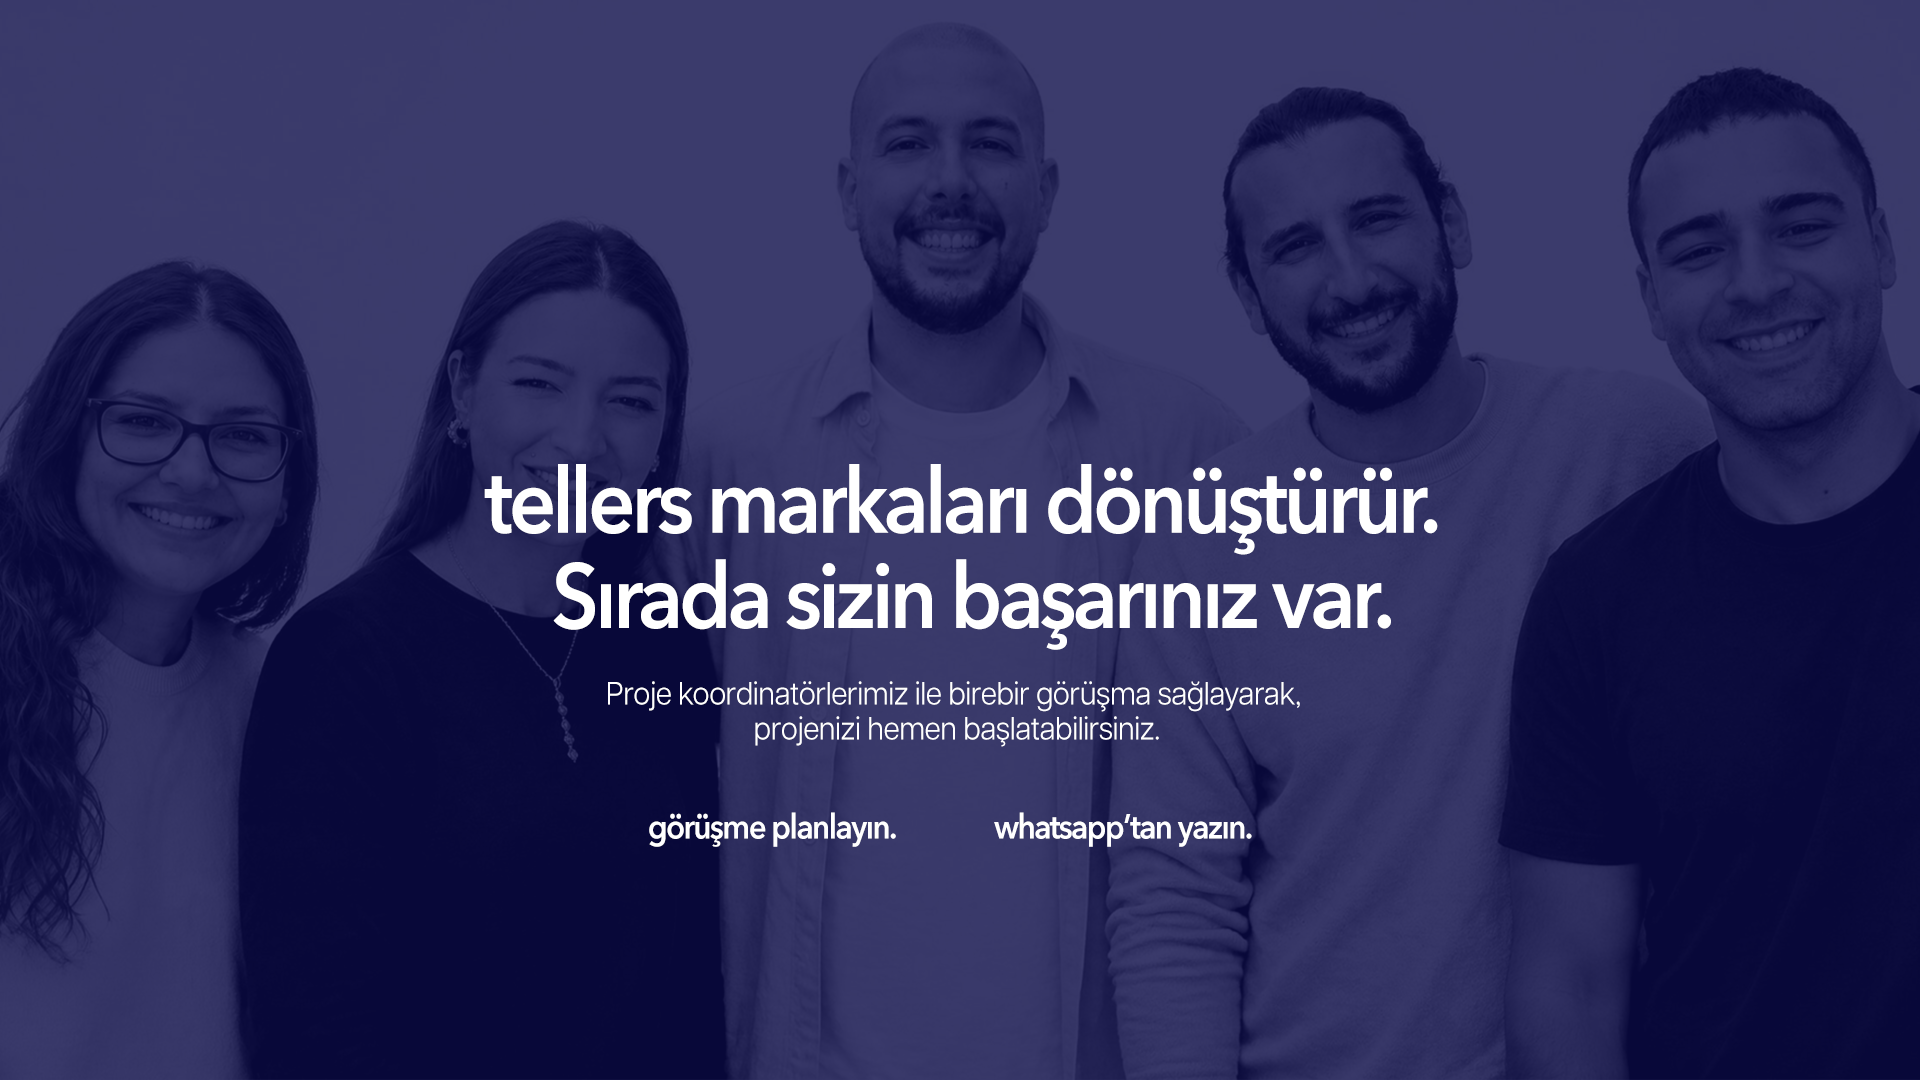
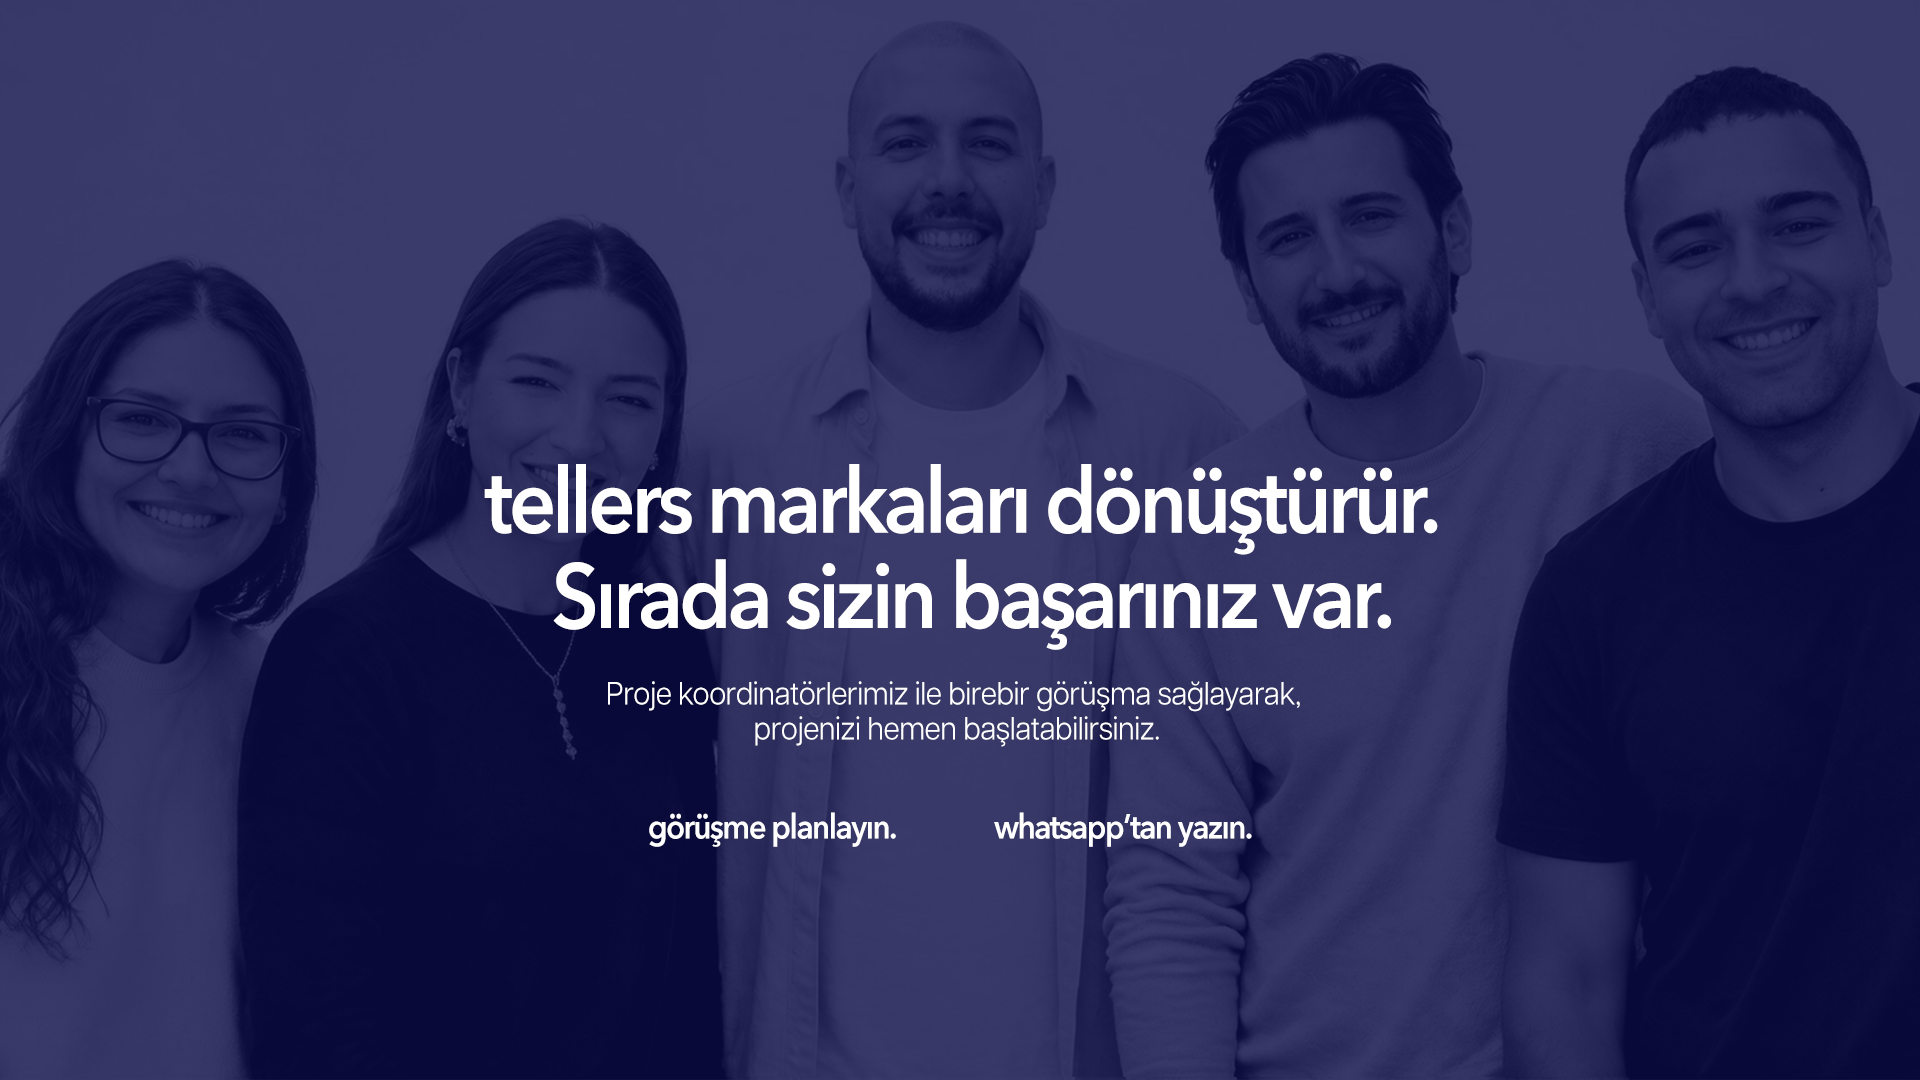
Drive medya denetimi: 165 dosya doğrulandı, 4 eksik kapatıldı
Her iki içerik dökümanındaki TÜM Drive linkleri indirilip sitedeki
dosyalarla md5 / video süresi / piksel boyutu bazında karşılaştırıldı.

SONUÇ: 165 dosya · 109 birebir (md5) · 49 video (sıkıştırılmış, süre
eşleşiyor) · 5 dönüştürülmüş (PSD/PDF→görsel) · 2 kalan

KAPATILAN EKSİKLER
- sayfa_bitiş_imajı.png: 2. döküman YENİ bir dosya ID'si veriyor,
  sitede 1. dökümanın eski sürümü duruyordu → güncellendi
- Kapanış görselindeki tıklama alanları yeni görselin yazı
  konumlarına göre yeniden ölçüldü (bottom-14% → top-73%)
- ana_safya_slogan_imaj.png hiç eklenmemişti → ana sayfada
  "İletişim; anlamın dolaşımı" bölümünün altına eklendi
  (dökümanın "bu alanı oranın altına alacağız" talimatı)
- premium-gym: dökümanın 9. medyası eksikti → galeriye eklendi
- my-nova: My-NovaMannheimEkim2025-Post.psd hiç eklenmemişti →
  PNG'ye çevrilip üçlü alanın ardına eklendi

KALAN 2 (kapatılamaz)
- utkan yıldırım.jpg: 2. dökümanın utkan_yildirim_1800x800.jpg
  sürümü zaten sitede (birebir eşleşiyor), eskisi geçersiz
- tasarım3.png (premium-gym): Drive'da SİLİNMİŞ, ID sorgusu
  "dosya bulunamadı" veriyor — ekipten yeni dosya gerekiyor

Changed region(s): [[0.625, 0.0306, 0.7812, 0.2139], [0.125, 0.55, 0.1562, 0.5806]]

diff --git a/components/ClosingCta.tsx b/components/ClosingCta.tsx
@@ -36,17 +36,22 @@ export default function ClosingCta({
                 (kırık tel: linki kullanıcıya gitmesin). */}
             {PHONE_READY && (
               <>
+                {/* Konumlar görselin İÇİNE basılı yazılara göre ölçüldü
+                    (sayfa_bitiş_imajı.png 1920x1080, 2. döküman sürümü):
+                    "görüşme planlayın."  x %33.8-47.1 · y %75.0-77.8
+                    "whatsapp'tan yazın." x %51.8-65.4 · y %75.0-77.8
+                    Görsel değişirse bu yüzdeler yeniden ölçülmeli. */}
                 <a
                   href={`tel:${SITE.phone}`}
                   aria-label="Görüşme planlayın — bizi arayın"
-                  className="absolute bottom-[14%] left-[30%] h-[10%] w-[18%] rounded-full transition-colors duration-500 hover:bg-white/10"
+                  className="absolute left-[32%] top-[73%] h-[7%] w-[17%] rounded-full transition-colors duration-500 hover:bg-white/10"
                 />
                 <a
                   href={SITE.whatsapp}
                   target="_blank"
                   rel="noopener noreferrer"
                   aria-label="WhatsApp'tan yazın"
-                  className="absolute bottom-[14%] right-[30%] h-[10%] w-[18%] rounded-full transition-colors duration-500 hover:bg-white/10"
+                  className="absolute left-[51%] top-[73%] h-[7%] w-[16%] rounded-full transition-colors duration-500 hover:bg-white/10"
                 />
               </>
             )}

diff --git a/content/brands.ts b/content/brands.ts
@@ -157,6 +157,9 @@ export const BRANDS: Brand[] = [
         rightTop: "/assets/brands/mynova/nova-ana-slide.png",
         rightBottom: "/assets/brands/mynova/gorsel-3.png",
       },
+      // Döküman: bu üçlü alanın görselleri arasında Mannheim postu da var
+      // ("linkteki görseller yukarıdaki 3'lü alanın ölçülerine göre").
+      { kind: "image", src: "/assets/brands/mynova/mannheim.png" },
       {
         kind: "tri",
         left: { type: "image", src: "/assets/brands/mynova/darwin-chair.jpg" },
@@ -483,6 +486,7 @@ export const BRANDS: Brand[] = [
           { type: "video", src: "/assets/brands/premiumgym/g6.mp4" },
           { type: "image", src: "/assets/brands/premiumgym/g7.jpg" },
           { type: "image", src: "/assets/brands/premiumgym/g8.jpg" },
+          { type: "image", src: "/assets/brands/premiumgym/g9.jpg" },
         ],
       },
     ],

diff --git a/app/page.tsx b/app/page.tsx
@@ -261,6 +261,19 @@ export default function HomePage() {
               inline
             />
           </Reveal>
+          {/* İçerik dökümanı: "Bu [slogan] alanı 'İletişim; Anlamın Dolaşımı'
+              alanının altına alacağız." (ana_safya_slogan_imaj.png)
+              Gerçek marka videosu geldiğinde bu görselin yerini alacak. */}
+          <Reveal delay={0.15} className="mt-6">
+            <Image
+              src="/assets/home/slogan-banner.png"
+              alt="Duyulan unutulur, anlaşılan kalır — tellers, gerçek bir ajans deneyimi"
+              width={1920}
+              height={800}
+              className="h-auto w-full"
+              sizes="100vw"
+            />
+          </Reveal>
         </section>
       </div>
 
